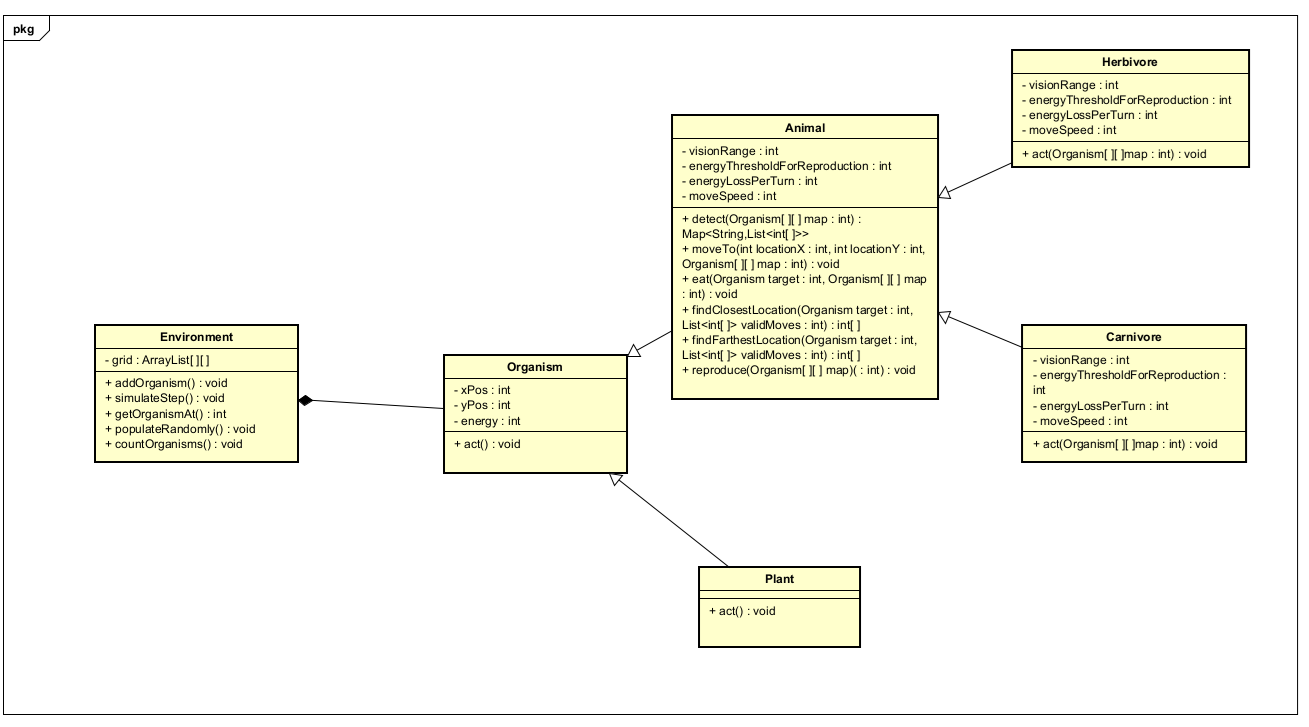
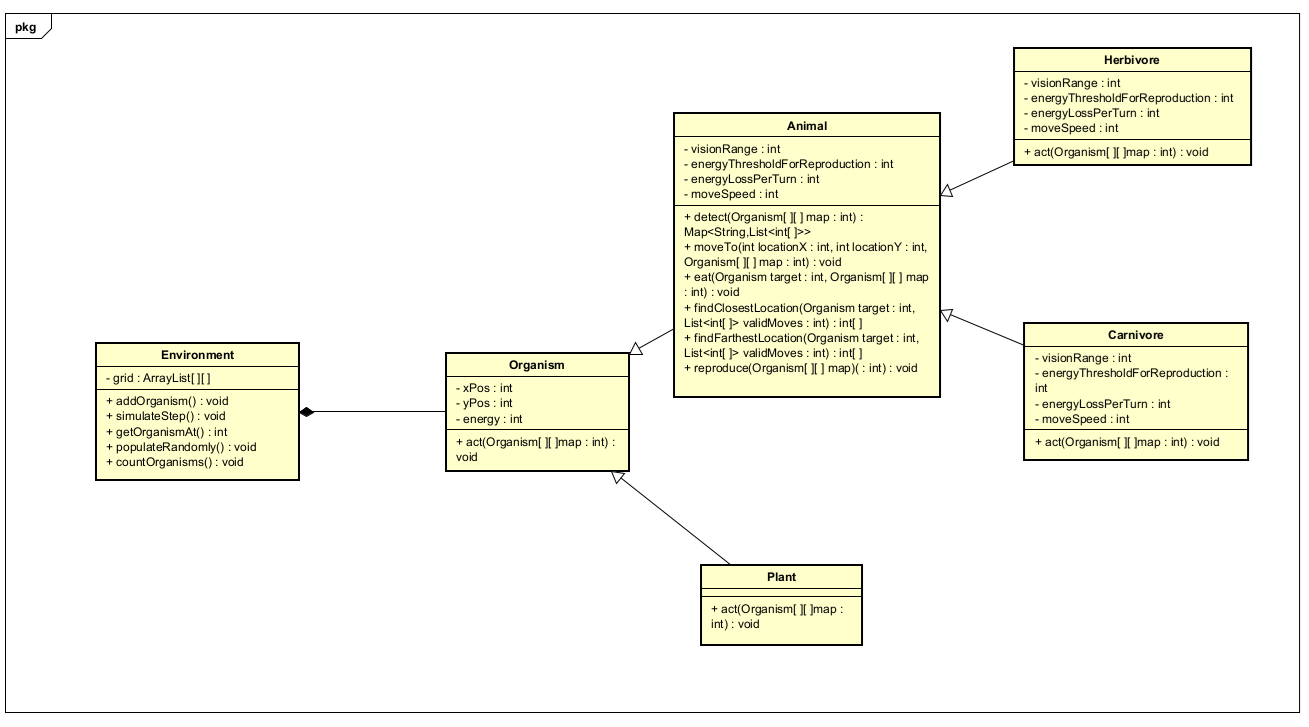
refactoring

diff --git a/src/ecosystem/gui/EnvironmentSimulationGUI.java b/src/ecosystem/gui/EnvironmentSimulationGUI.java
@@ -48,24 +48,33 @@ public class EnvironmentSimulationGUI extends JFrame {
         JButton extinctionButton = new JButton("Extinction");
 
         balancedButton.addActionListener(e -> {
-            setupBalancedConfiguration();
             configDialog.dispose();
-            showSetupDialog("30", "30", "0.01", "50", "30", "5", "2", "5", "200", "5", "200", "2", "5", "150", "4",
+            showSetupDialog("30", "30", "0.01", "50", 
+            "30", "5", "2", 
+            "5", "200", "5", 
+            "200", "2", "5", 
+            "150", "4",
                     "150");
         });
 
         overpopulationButton.addActionListener(e -> {
-            setupOverpopulationConfiguration();
             configDialog.dispose();
-            showSetupDialog("30", "30", "0.01", "50", "30", "20", "2", "5", "200", "5", "200", "2", "5", "150", "4",
-                    "150");
+            showSetupDialog("30", "30", "0.01", "50", 
+            "30", "20", "3", 
+            "5", "200", "5", 
+            "200", "2", "5", 
+            "150", "4",
+            "150");
         });
 
         extinctionButton.addActionListener(e -> {
-            setupExtinctionConfiguration();
             configDialog.dispose();
-            showSetupDialog("30", "30", "0.0005", "20", "30", "5", "2", "5", "200", "5", "200", "2", "5", "150", "4",
-                    "150");
+            showSetupDialog("30", "30", "0.0005", "20", 
+            "30", "5", "3", 
+            "5", "200", "5", 
+            "200", "2", "5", 
+            "150", "4",
+            "150");
         });
 
         buttonPanel.add(balancedButton);
@@ -121,21 +130,6 @@ public class EnvironmentSimulationGUI extends JFrame {
         setupDialog.add(setupPanel, BorderLayout.CENTER);
         setupDialog.add(startButton, BorderLayout.SOUTH);
         setupDialog.setVisible(true);
-    }
-
-    private void setupBalancedConfiguration() {
-        // Set up parameters for a balanced ecosystem
-        System.out.println("Balanced ecosystem configuration selected.");
-    }
-
-    private void setupOverpopulationConfiguration() {
-        // Set up parameters for overpopulation
-        System.out.println("Overpopulation configuration selected.");
-    }
-
-    private void setupExtinctionConfiguration() {
-        // Set up parameters for extinction
-        System.out.println("Extinction configuration selected.");
     }
 
     private void setupEnvironment(SimulationSetupPanel setupPanel) {
@@ -196,9 +190,15 @@ public class EnvironmentSimulationGUI extends JFrame {
     }
 
     private boolean checkSimulationEnd() {
-        if (environment.getPlantCount() == 0 && environment.getHerbivoreCount() == 0
-                && environment.getCarnivoreCount() == 0) {
-            JOptionPane.showMessageDialog(this, "Simulation ended: No organisms left.", "Simulation Ended",
+        if (environment.getHerbivoreCount() <= 0) {
+            JOptionPane.showMessageDialog(this, "Simulation ended: No herbivore organisms left.", "Simulation Ended",
+                    JOptionPane.INFORMATION_MESSAGE);
+            isRunning = false;
+            return true;
+        }
+
+        if (environment.getCarnivoreCount() <= 0) {
+            JOptionPane.showMessageDialog(this, "Simulation ended: No carnivore organisms left.", "Simulation Ended",
                     JOptionPane.INFORMATION_MESSAGE);
             isRunning = false;
             return true;
@@ -247,6 +247,8 @@ class SimulationSetupPanel extends JPanel {
         plantCountField = addField("Initial Plants:", "50");
         plantSpawnRateField = addField("Plant Spawn Rate:", "0.01");
         plantEnergyGainField = addField("Plant Energy Gain:", "10");
+        add(new JLabel(""));
+        add(new JLabel(""));
 
         carnivoreCountField = addField("Initial Carnivores:", "5");
         carnivoreSpeedField = addField("Carnivore Speed:", "2");

diff --git a/src/ecosystem/environment/Environment.java b/src/ecosystem/environment/Environment.java
@@ -160,36 +160,6 @@ public class Environment {
         }
     }
 
-    public List<Plant> getAllProducers() {
-        List<Plant> producers = new ArrayList<>();
-        for (Organism organism : organisms) {
-            if (organism instanceof Plant) {
-                producers.add((Plant) organism);
-            }
-        }
-        return producers;
-    }
-
-    public List<Herbivore> getAllHerbivores() {
-        List<Herbivore> herbivores = new ArrayList<>();
-        for (Organism organism : organisms) {
-            if (organism instanceof Herbivore) {
-                herbivores.add((Herbivore) organism);
-            }
-        }
-        return herbivores;
-    }
-
-    public List<Carnivore> getAllCarnivores() {
-        List<Carnivore> carnivores = new ArrayList<>();
-        for (Organism organism : organisms) {
-            if (organism instanceof Carnivore) {
-                carnivores.add((Carnivore) organism);
-            }
-        }
-        return carnivores;
-    }
-
     public void countOrganisms() {
         int plantCount = 0;
         int herbivoreCount = 0;

diff --git a/test.py b/test.py
@@ -1,0 +1,13 @@
+import os
+
+def count_java_lines(directory):
+    total_lines = 0
+    for root, _, files in os.walk(directory):
+        for file in files:
+            if file.endswith(".java"):
+                with open(os.path.join(root, file), "r", encoding="utf-8") as f:
+                    total_lines += sum(1 for _ in f)
+    return total_lines
+
+directory = input("Nhập đường dẫn thư mục: ")
+print(f"Tổng số dòng Java: {count_java_lines(directory)}")

diff --git a/src/ecosystem/organism/Plant.java b/src/ecosystem/organism/Plant.java
@@ -1,5 +1,7 @@
 package src.ecosystem.organism;
 
+import java.util.List;
+
 public class Plant extends Organism {
     public static int energyGain = 10;
     public static int defaultEnergy = 300;
@@ -13,7 +15,7 @@ public class Plant extends Organism {
         this.energy = defaultEnergy;
     }
 
-    public void act() {
+    public void act(Organism[][] map, List<Organism> organisms) {
         grow();
     }
 

diff --git a/src/ecosystem/organism/Organism.java b/src/ecosystem/organism/Organism.java
@@ -53,9 +53,7 @@ public abstract class Organism {
         this.isAlive = isAlive;
     };
 
-    public void act(Organism[][] map, List<Organism> organisms) {
-
-    }
+    public abstract void act(Organism[][] map, List<Organism> organisms);
 
     @Override
     public String toString() {
